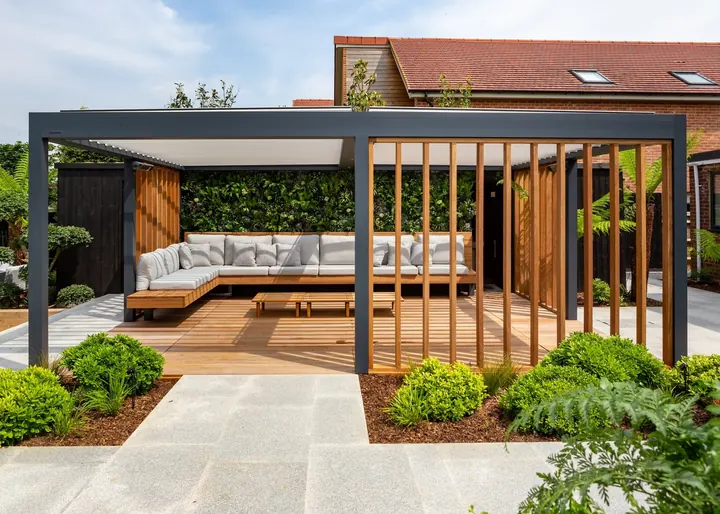
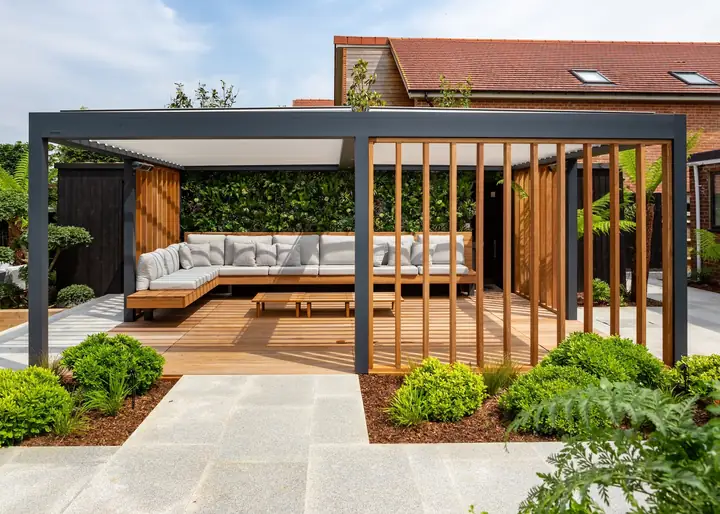
Polish homepage PSI follow-up

diff --git a/index.html b/index.html
@@ -40,10 +40,36 @@
     <link rel="apple-touch-icon" href="/images/Haven_transparent_logo-120.png">
     <link rel="manifest" href="/site.webmanifest">
     <link rel="author" href="/humans.txt">
-    <link rel="preload" as="image" href="images/Haven_transparent_logo-240.webp">
-    <link rel="preload" as="image" href="images/modern_living-720.webp" imagesrcset="images/modern_living-480.webp 480w, images/modern_living-720.webp 720w" imagesizes="(max-width: 900px) 100vw, 50vw">
-    
-    <link rel="stylesheet" href="css/styles.css">
+    <link rel="preload" as="image" href="images/Haven_transparent_logo-240.webp" fetchpriority="high">
+    <link rel="preload" as="image" href="images/modern_living-720.webp" imagesrcset="images/modern_living-480.webp 480w, images/modern_living-720.webp 720w" imagesizes="(max-width: 900px) calc(100vw - 3rem), 50vw" fetchpriority="high">
+    <style>
+      *{box-sizing:border-box;margin:0;padding:0}
+      :root{--black:#0b0b0b;--bronze:#c49a3a;--bronze-light:#d4aa4a;--white:#f5f5f5;--text-primary:#e8e8e8;--text-secondary:#999;--card-border:#222;--font-display:Georgia,'Times New Roman',serif}
+      html,body{overflow-x:hidden}
+      body{background:var(--black);color:var(--text-primary);font-family:'Segoe UI',Tahoma,Geneva,Verdana,sans-serif;line-height:1.7}
+      .navbar{background:var(--black);border-bottom:1px solid var(--card-border);box-shadow:0 2px 20px rgba(0,0,0,.5);position:sticky;top:0;z-index:1000}
+      .nav-container{align-items:center;display:flex;justify-content:space-between;margin:0 auto;max-width:1200px;padding:1.25rem 2rem}
+      .logo-image{display:block;height:auto;width:180px}
+      .nav-menu{display:flex;gap:1.8rem;list-style:none}
+      .nav-link{color:var(--text-primary);font-size:1rem;font-weight:500;letter-spacing:.5px;text-decoration:none}
+      .hamburger{background:none;border:0;cursor:pointer;display:none;flex-direction:column;gap:.35rem}
+      .hamburger span{background:var(--bronze);height:3px;width:25px}
+      .hero{align-items:center;display:grid;gap:4rem;grid-template-columns:1fr 1fr;margin:5rem auto;max-width:1200px;padding:0 2rem}
+      .hero-content,.hero-image{min-width:0}
+      .hero-content h1{color:var(--white);font-family:var(--font-display);font-size:2.8rem;font-weight:600;letter-spacing:0;line-height:1.2;margin-bottom:1.8rem;overflow-wrap:anywhere}
+      .hero-content p{color:var(--text-secondary);font-size:1.1rem;line-height:1.9;margin-bottom:1.2rem}
+      .hero-proof{border-left:3px solid var(--bronze);color:var(--text-primary);font-size:1rem;line-height:1.7;max-width:620px;padding-left:1rem}
+      .hero-actions{display:flex;flex-wrap:wrap;gap:1rem;margin-top:2.5rem}
+      .btn{border:2px solid transparent;border-radius:6px;cursor:pointer;display:inline-block;font-size:1rem;font-weight:600;letter-spacing:.5px;padding:.85rem 2.2rem;text-align:center;text-decoration:none}
+      .btn-primary{background:var(--bronze);color:var(--black)}
+      .btn-secondary{background:transparent;border-color:var(--bronze);color:var(--bronze)}
+      .hero-image{border-radius:10px;box-shadow:0 18px 44px rgba(0,0,0,.45);overflow:hidden;position:relative}
+      .hero-image img{aspect-ratio:3/2;display:block;filter:contrast(1.07);height:auto;width:100%}
+      @media (max-width:768px){.nav-menu{background:var(--black);border-top:1px solid var(--card-border);display:none;flex-direction:column;gap:0;left:0;padding:1rem;position:absolute;right:0;top:100%}.nav-menu.active{display:flex}.hamburger{display:flex}.hero{grid-template-columns:1fr;gap:2rem;margin:3rem auto;max-width:100%;padding:0 1.5rem;width:100%}.hero-content h1{font-size:2rem}.hero-content p{font-size:1rem}.hero-actions{flex-direction:column;width:100%}.hero-actions .btn{max-width:100%;width:100%}}
+      @media (max-width:480px){.nav-container{padding:1rem}.logo-image{width:140px}.hero-content h1{font-size:clamp(1.45rem,9vw,1.85rem);line-height:1.18}.hero-content p,.hero-proof{font-size:.96rem}.hero-image{border-radius:8px}}
+    </style>
+    <link rel="preload" href="css/styles.min.css?v=20260719-psi2" as="style" onload="this.onload=null;this.rel='stylesheet'">
+    <noscript><link rel="stylesheet" href="css/styles.min.css?v=20260719-psi2"></noscript>
     
     <title>Haven Design & Build LLC | Marietta GA Renovation Contractor</title>
 
@@ -219,7 +245,7 @@
                     </div>
                 </div>
                 <div class="hero-image">
-                    <img src="images/modern_living-720.webp" srcset="images/modern_living-480.webp 480w, images/modern_living-720.webp 720w" sizes="(max-width: 900px) 100vw, 50vw" alt="Modern luxury living room interior" width="720" height="480" fetchpriority="high" decoding="async">
+                    <img src="images/modern_living-720.webp" srcset="images/modern_living-480.webp 480w, images/modern_living-720.webp 720w" sizes="(max-width: 900px) calc(100vw - 3rem), 50vw" alt="Modern luxury living room interior" width="720" height="480" fetchpriority="high" decoding="async">
                 </div>
             </div>
 

diff --git a/js/app.js b/js/app.js
@@ -424,13 +424,13 @@ function loadGoogleAnalytics() {
 }
 
 function scheduleGoogleAnalytics() {
-    const load = () => {
-        if ('requestIdleCallback' in window) {
-            window.requestIdleCallback(loadGoogleAnalytics, { timeout: 2500 });
-            return;
-        }
-        window.setTimeout(loadGoogleAnalytics, 1200);
-    };
+    const load = () => window.setTimeout(loadGoogleAnalytics, 12000);
+    const loadOnInteraction = () => loadGoogleAnalytics();
+    const interactionOptions = { once: true, passive: true };
+
+    ['pointerdown', 'keydown', 'scroll', 'touchstart'].forEach((eventName) => {
+        window.addEventListener(eventName, loadOnInteraction, interactionOptions);
+    });
 
     if (document.readyState === 'complete') {
         load();

diff --git a/css/styles.css b/css/styles.css
@@ -320,6 +320,8 @@ body {
 
 .hero-image img {
     width: 100%;
+    height: auto;
+    aspect-ratio: 3 / 2;
     display: block;
     filter: contrast(1.07);
 }
@@ -427,6 +429,7 @@ body {
 .project-card img {
     width: 100%;
     height: 200px;
+    aspect-ratio: 16 / 9;
     object-fit: cover;
 }
 
@@ -707,6 +710,7 @@ body {
 
 .service-image img {
     width: 100%;
+    height: auto;
     border-radius: 6px;
     box-shadow: 0 12px 28px rgba(0, 0, 0, 0.22);
 }

diff --git a/css/styles.min.css b/css/styles.min.css
@@ -1,0 +1,1 @@
+*{margin:0;padding:0;box-sizing:border-box}:root{--black:#0B0B0B;--black-lighter:#141414;--bronze:#C49A3A;--bronze-light:#D4AA4A;--bronze-dim:rgba(196,154,58,0.15);--white:#F5F5F5;--gray-dark:#1A1A1A;--gray-mid:#2A2A2A;--gray-light:#B0B0B0;--text-primary:#E8E8E8;--text-secondary:#999999;--card-bg:#141414;--card-border:#222222;--font-display:Georgia,'Times New Roman',serif}html{scroll-behavior:smooth;overflow-x:hidden}body{font-family:'Segoe UI',Tahoma,Geneva,Verdana,sans-serif;line-height:1.7;color:var(--text-primary);background-color:var(--black);overflow-x:hidden}.hero-content h1,.hero-content h2,.featured-projects h3,.about-copy h2,.testimonials h3,.services-header h2,.service-content h3,.inquire-header h2,.payments-header h2,.connect-header h2,.payment-info h3,.stripe-payment h3,.payment-contact h3,.qr-card h3{font-family:var(--font-display);font-weight:600;letter-spacing:0.2px}.navbar{background-color:var(--black);position:sticky;top:0;z-index:1000;box-shadow:0 2px 20px rgba(0,0,0,0.5);border-bottom:1px solid var(--card-border)}.nav-container{max-width:1200px;margin:0 auto;display:flex;justify-content:space-between;align-items:center;padding:1.25rem 2rem}.logo{display:flex;flex-direction:column;align-items:flex-start;text-decoration:none;color:var(--bronze);font-weight:bold}.logo-image{width:180px;height:auto;display:block}.logo h1{font-size:1.6rem;letter-spacing:3px;margin:0;line-height:1}.logo p{font-size:0.7rem;letter-spacing:1.5px;margin-top:0.3rem;text-transform:uppercase;color:var(--bronze);opacity:0.8}.nav-menu{display:flex;list-style:none;gap:1.8rem}.nav-link{color:var(--text-primary);text-decoration:none;font-weight:500;transition:color 0.3s ease;cursor:pointer;font-size:1rem;letter-spacing:0.5px}.nav-link:hover{color:var(--bronze)}.nav-link.active{color:var(--bronze);border-bottom:2px solid var(--bronze);padding-bottom:0.25rem}.hamburger{display:none;flex-direction:column;background:none;border:none;cursor:pointer;gap:0.35rem}.hamburger span{width:25px;height:3px;background-color:var(--bronze);transition:all 0.3s ease}.hamburger.active span:nth-child(1){transform:rotate(45deg) translate(8px,8px)}.hamburger.active span:nth-child(2){opacity:0}.hamburger.active span:nth-child(3){transform:rotate(-45deg) translate(7px,-7px)}.btn{display:inline-block;padding:0.85rem 2.2rem;border:2px solid transparent;border-radius:6px;text-decoration:none;font-weight:600;cursor:pointer;transition:all 0.3s ease;font-size:1rem;text-align:center;letter-spacing:0.5px}.btn-primary{background-color:var(--bronze);color:var(--black)}.btn-primary:hover{background-color:var(--bronze-light);transform:translateY(-2px);box-shadow:0 6px 20px rgba(196,154,58,0.3)}.btn-secondary{background-color:transparent;color:var(--bronze);border:2px solid var(--bronze)}.btn-secondary:hover{background-color:var(--bronze-dim);transform:translateY(-2px);box-shadow:0 4px 15px rgba(196,154,58,0.15)}.btn-tertiary{background-color:transparent;color:var(--bronze);border:2px solid var(--bronze);padding:0.6rem 1.5rem;font-size:0.9rem}.btn-tertiary:hover{background-color:var(--bronze-dim)}.main-content{min-height:calc(100vh - 200px)}.page{animation:fadeIn 0.3s ease-in}@keyframes fadeIn{from{opacity:0;transform:translateY(10px)}to{opacity:1;transform:translateY(0)}}.hero{display:grid;grid-template-columns:1fr 1fr;gap:4rem;align-items:center;max-width:1200px;margin:5rem auto;padding:0 2rem}.hero-content,.hero-image,.about-section,.about-copy,.about-features{min-width:0}.hero-content h1{font-size:2.8rem;line-height:1.2;margin-bottom:1.8rem;color:var(--white);letter-spacing:0;overflow-wrap:anywhere}.hero-content p{font-size:1.1rem;margin-bottom:1.2rem;color:var(--text-secondary);line-height:1.9;overflow-wrap:break-word}.hero-content .hero-proof{max-width:620px;padding-left:1rem;border-left:3px solid var(--bronze);color:var(--text-primary);font-size:1rem;line-height:1.7}.hero-actions{display:flex;flex-wrap:wrap;gap:1rem;margin-top:2.5rem}.hero-content .btn{margin-top:0}.hero-image{position:relative;border-radius:10px;overflow:hidden;box-shadow:0 18px 44px rgba(0,0,0,0.45)}.hero-image::after{content:'';position:absolute;inset:0;background:radial-gradient(circle at center,rgba(0,0,0,0) 46%,rgba(0,0,0,0.22) 100%),linear-gradient(rgba(11,11,11,0.08),rgba(11,11,11,0.08));pointer-events:none}.hero-image img{width:100%;height:auto;aspect-ratio:3 / 2;display:block;filter:contrast(1.07)}.about-section{max-width:1200px;margin:0 auto 7rem;padding:4rem 2rem;display:grid;grid-template-columns:1.1fr 0.9fr;gap:3rem;align-items:center;background:var(--gray-dark);border-top:1px solid rgba(196,154,58,0.24);border-bottom:1px solid rgba(196,154,58,0.24)}.section-kicker{display:inline-block;color:var(--bronze);font-size:0.82rem;font-weight:700;letter-spacing:1px;text-transform:uppercase;margin-bottom:1rem}.about-copy h2{color:var(--white);font-size:2.2rem;line-height:1.25;margin-bottom:1.2rem}.about-copy p{color:var(--text-secondary);font-size:1.05rem;line-height:1.9}.about-highlights{display:grid;gap:1rem}.about-highlights div{padding:1.3rem;background:var(--card-bg);border-left:4px solid var(--bronze);border-radius:6px}.about-highlights strong,.about-highlights span{display:block}.about-highlights strong{color:var(--white);margin-bottom:0.35rem}.about-highlights span{color:var(--text-secondary);font-size:0.95rem;line-height:1.6}.featured-projects{max-width:1200px;margin:7rem auto;padding:0 2rem}.featured-projects h3{font-size:2.2rem;margin-bottom:3rem;text-align:center;color:var(--white)}.projects-grid{display:grid;grid-template-columns:repeat(auto-fit,minmax(250px,1fr));gap:2rem}.project-card{background:var(--card-bg);border-radius:10px;overflow:hidden;box-shadow:0 8px 24px rgba(0,0,0,0.2);transition:transform 0.3s ease,box-shadow 0.3s ease;border:1px solid rgba(255,255,255,0.05)}.project-card:hover{transform:translateY(-6px);box-shadow:0 14px 30px rgba(0,0,0,0.28);border-color:rgba(196,154,58,0.2)}.project-card img{width:100%;height:200px;aspect-ratio:16 / 9;object-fit:cover}.project-card h4{padding:1.5rem 1.5rem 0.5rem;color:var(--white);font-size:1.25rem}.project-card p{padding:0.5rem 1.5rem 1.8rem;color:var(--text-secondary);font-size:0.95rem;line-height:1.6}.testimonials{background:var(--gray-dark);color:var(--white);padding:6rem 2rem;margin:7rem 0 0;border-top:1px solid rgba(255,255,255,0.05);border-bottom:1px solid rgba(255,255,255,0.05)}.testimonials h3{font-size:2.2rem;margin-bottom:3rem;text-align:center}.testimonials-container{max-width:1200px;margin:0 auto;display:grid;grid-template-columns:repeat(auto-fit,minmax(300px,1fr));gap:2rem}.testimonial{background:rgba(255,255,255,0.03);padding:2.5rem;border-radius:10px;border:1px solid rgba(255,255,255,0.06);border-left:4px solid var(--bronze)}.testimonial-rating{display:inline-block;color:var(--bronze);font-size:0.95rem;letter-spacing:1px;margin-bottom:0.85rem}.testimonial p{font-size:1rem;line-height:1.9;margin-bottom:1.5rem;font-style:italic;color:var(--text-primary)}.testimonial .author{color:var(--bronze);font-weight:600;display:block}.verified-label{display:inline-block;margin-top:0.35rem;font-size:0.82rem;color:var(--text-secondary)}.services-header{text-align:center;padding:5rem 2rem 4rem;max-width:1200px;margin:0 auto}.services-header h2{font-size:2.8rem;margin-bottom:1.2rem;color:var(--white)}.services-header p{font-size:1.15rem;color:var(--text-secondary)}.services-container{max-width:1200px;margin:0 auto;padding:0 2rem 5rem}.service-section{display:grid;grid-template-columns:1fr 1fr;gap:3.5rem;align-items:center;margin-bottom:5.5rem;padding:0;background:transparent;border:none}.service-section-reverse{direction:rtl}.service-section-reverse>*{direction:ltr}.service-actions{display:flex;flex-wrap:wrap;align-items:center;gap:1rem;margin-top:1.5rem}.text-link{color:var(--bronze);font-weight:700;text-decoration:none;border-bottom:1px solid rgba(201,169,110,0.45);padding-bottom:0.2rem}.text-link:hover{color:var(--gold);border-bottom-color:var(--gold)}.inline-link{color:var(--bronze);text-decoration:none;font-weight:700}.inline-link:hover{color:var(--gold)}.page-support-section{max-width:1200px;margin:6rem auto;padding:0 2rem;min-width:0}.local-seo-panel{background:linear-gradient(135deg,rgba(201,169,110,0.12),rgba(255,255,255,0.04));border:1px solid rgba(201,169,110,0.28);border-radius:10px;padding:3rem;min-width:0}.local-seo-panel h2{font-family:var(--font-display);font-size:2rem;color:var(--white);margin:0.75rem 0 1rem}.local-seo-panel>p{color:var(--text-secondary);max-width:850px;line-height:1.8}.answer-grid{display:grid;grid-template-columns:repeat(auto-fit,minmax(min(100%,220px),1fr));gap:1.25rem;margin-top:2rem}.answer-grid article{background:rgba(0,0,0,0.24);border:1px solid rgba(255,255,255,0.08);border-radius:8px;padding:1.5rem;min-width:0}.answer-grid h3{color:var(--bronze);margin-bottom:0.75rem;overflow-wrap:break-word}.answer-grid p{color:var(--text-secondary);line-height:1.7;overflow-wrap:break-word}.seo-page{min-height:100vh;background:var(--black);color:var(--white);padding:3rem 2rem 5rem}.seo-back-link{display:inline-block;color:var(--bronze);text-decoration:none;margin-bottom:3rem;font-weight:700}.seo-hero,.seo-content-grid{max-width:1000px;margin:0 auto}.seo-hero{padding:4rem 0}.seo-hero h1{font-family:var(--font-display);font-size:clamp(2.2rem,6vw,4.5rem);line-height:1.05;margin:1rem 0}.seo-hero p{color:var(--text-secondary);font-size:1.1rem;line-height:1.8;max-width:780px;margin-bottom:2rem}.seo-content-grid{display:grid;grid-template-columns:1fr 1fr;gap:1.5rem}.seo-content-grid article{background:var(--gray-dark);border:1px solid rgba(201,169,110,0.22);border-radius:10px;padding:2rem}.seo-content-grid h2{color:var(--bronze);margin-bottom:1rem}.seo-content-grid p,.seo-content-grid li{color:var(--text-secondary);line-height:1.8}.seo-content-grid ul{padding-left:1.2rem}.service-image img{width:100%;height:auto;border-radius:6px;box-shadow:0 12px 28px rgba(0,0,0,0.22)}.service-content h3{font-size:1.9rem;margin-bottom:1.5rem;color:var(--white)}.service-content p{font-size:1.05rem;line-height:1.9;margin-bottom:1.8rem;color:var(--text-secondary)}.service-list{list-style:disc;margin:0 0 1.8rem 1.2rem;color:var(--text-secondary)}.service-list li{font-size:1.05rem;line-height:1.9;margin-bottom:0.4rem}.service-content .btn{margin-right:1rem;margin-bottom:1rem}.inquire-header{background:var(--gray-dark);color:var(--white);text-align:center;padding:4rem 2rem;border-bottom:1px solid rgba(255,255,255,0.05)}.inquire-header h2{font-size:2.8rem;margin-bottom:1.2rem}.inquire-header p{font-size:1.15rem;max-width:600px;margin:0 auto;color:var(--text-secondary)}.inquire-content{max-width:700px;margin:0 auto;padding:4rem 2rem}.quote-path{display:grid;grid-template-columns:repeat(3,1fr);gap:1rem;margin-bottom:2rem}.quote-path div{padding:1.25rem;background:rgba(20,20,20,0.72);border:1px solid rgba(196,154,58,0.18);border-radius:8px}.quote-path span{display:inline-flex;align-items:center;justify-content:center;width:2rem;height:2rem;margin-bottom:0.85rem;border:1px solid rgba(196,154,58,0.45);border-radius:50%;color:var(--bronze-light);font-weight:700}.quote-path strong{display:block;margin-bottom:0.35rem;color:var(--white)}.quote-path p{color:var(--text-secondary);font-size:0.92rem;line-height:1.6}.form-container{background:var(--card-bg);padding:3rem;border-radius:10px;border:1px solid rgba(255,255,255,0.06);box-shadow:0 10px 24px rgba(0,0,0,0.16)}.inquiry-form{display:flex;flex-direction:column;gap:1.5rem}.form-group{display:flex;flex-direction:column}.form-group label{font-weight:600;margin-bottom:0.5rem;color:var(--white);font-size:0.95rem}.form-group input,.form-group select,.form-group textarea{padding:0.85rem 1rem;border:1px solid var(--card-border);border-radius:6px;font-family:inherit;font-size:1rem;transition:border-color 0.3s ease,box-shadow 0.3s ease;background-color:var(--gray-dark);color:var(--text-primary)}.form-group input:focus,.form-group select:focus,.form-group textarea:focus{outline:none;border-color:var(--bronze);box-shadow:0 0 0 3px rgba(196,154,58,0.15)}.form-group input::placeholder,.form-group textarea::placeholder{color:var(--text-secondary)}.form-group select option{background-color:var(--gray-dark);color:var(--text-primary)}.form-group textarea{resize:vertical}.inquiry-form .btn-primary{margin-top:1rem;cursor:pointer;border:none;font-size:1.05rem;padding:1rem 2rem}.form-note{font-size:0.9rem;color:var(--text-secondary);margin-top:0.75rem;text-align:center}.form-note a{color:var(--bronze)}.form-note-email{margin-top:1rem}.form-message{padding:1.5rem;border-radius:6px;margin-top:1.5rem}.form-message.success{background-color:rgba(40,167,69,0.15);border:1px solid rgba(40,167,69,0.3);color:#6fcf7c}.form-message.error{background-color:rgba(220,53,69,0.15);border:1px solid rgba(220,53,69,0.3);color:#f5a0a8}.payments-header{text-align:center;background:var(--gray-dark);color:var(--white);padding:4rem 2rem;border-bottom:1px solid rgba(255,255,255,0.05)}.payments-header h2{font-size:2.8rem;margin-bottom:1.2rem}.payments-header p{font-size:1.15rem;color:var(--text-secondary)}.payments-content{max-width:1200px;margin:0 auto;padding:5rem 2rem;display:grid;grid-template-columns:repeat(auto-fit,minmax(300px,1fr));gap:2.8rem}.payment-info{background:var(--card-bg);padding:2.5rem;border-radius:10px;border:1px solid rgba(255,255,255,0.06);box-shadow:0 10px 24px rgba(0,0,0,0.16)}.payment-info h3{font-size:1.5rem;margin-bottom:1rem;color:var(--white)}.payment-info p{color:var(--text-secondary);margin-bottom:1.5rem;line-height:1.7}.payment-methods{display:grid;gap:1.5rem;margin:2rem 0}.payment-method{background:var(--gray-dark);padding:1.5rem;border-left:4px solid var(--bronze);border-radius:6px;box-shadow:0 6px 16px rgba(0,0,0,0.12)}.payment-method h4{color:var(--white);margin-bottom:0.5rem}.payment-method p{color:var(--text-secondary);font-size:0.95rem;margin-bottom:0}.payment-schedule{background:var(--gray-dark);padding:1.5rem;border-radius:6px;margin-top:1.5rem}.payment-schedule h4{color:var(--white);margin-bottom:1rem}.payment-schedule ul{list-style:none}.payment-schedule li{padding:0.6rem 0;color:var(--text-secondary);border-bottom:1px solid var(--card-border)}.payment-schedule li strong{color:var(--bronze)}.payment-schedule li:last-child{border-bottom:none}.stripe-payment{background:var(--card-bg);padding:2.5rem;border-radius:10px;border:1px solid rgba(255,255,255,0.06);box-shadow:0 10px 24px rgba(0,0,0,0.16)}.stripe-payment h3{font-size:1.5rem;margin-bottom:1rem;color:var(--white)}.stripe-payment p{color:var(--text-secondary);margin-bottom:1.5rem}.payment-input-group{margin-bottom:1.5rem}.payment-input-group label{display:block;font-weight:600;margin-bottom:0.5rem;color:var(--white)}.payment-input-group input{width:100%;padding:0.85rem 1rem;border:1px solid var(--card-border);border-radius:6px;font-size:1rem;background-color:var(--gray-dark);color:var(--text-primary);transition:border-color 0.3s ease}.payment-input-group input:focus{outline:none;border-color:var(--bronze);box-shadow:0 0 0 3px rgba(196,154,58,0.15)}.stripe-note{font-size:0.85rem;color:var(--text-secondary);margin-top:1rem;font-style:italic}.stripe-security-note{font-size:0.85rem;color:rgba(196,154,58,0.78);margin-top:0.85rem;margin-bottom:0;text-align:center}.payment-contact{background:var(--card-bg);padding:2.5rem;border-radius:10px;text-align:center;border:1px solid rgba(255,255,255,0.06);box-shadow:0 10px 24px rgba(0,0,0,0.16)}.payment-contact h3{font-size:1.5rem;margin-bottom:1rem;color:var(--white)}.payment-contact p{color:var(--text-secondary);margin-bottom:1.5rem}.payment-tab-link{margin-top:1rem}.connect-header{text-align:center;background:var(--gray-dark);color:var(--white);padding:4rem 2rem;border-bottom:1px solid rgba(255,255,255,0.05)}.connect-header h2{font-size:2.8rem;margin-bottom:1.2rem}.connect-header p{color:var(--text-secondary);max-width:620px;margin:0 auto;font-size:1.1rem}.connect-content{max-width:920px;margin:0 auto;padding:5rem 2rem;display:grid;grid-template-columns:320px 1fr;gap:2rem;align-items:stretch}.qr-card,.connect-links{background:var(--card-bg);border:1px solid rgba(255,255,255,0.06);border-radius:8px;padding:2rem;box-shadow:0 10px 24px rgba(0,0,0,0.16)}.qr-card{text-align:center}.qr-card img{width:220px;height:220px;max-width:100%;border-radius:6px;background:var(--white);padding:0.5rem;margin-bottom:1.2rem}.qr-card h3{color:var(--white);margin-bottom:0.5rem}.qr-card p{color:var(--text-secondary);font-size:0.95rem}.connect-links{display:grid;gap:1rem}.connect-links a{display:flex;align-items:center;justify-content:space-between;min-height:52px;padding:0.85rem 1rem;color:var(--text-primary);text-decoration:none;border:1px solid var(--card-border);border-radius:6px;background:var(--gray-dark);transition:border-color 0.3s ease,color 0.3s ease,transform 0.3s ease}.connect-links a::after{content:'>';color:var(--bronze)}.connect-links a:hover{color:var(--bronze);border-color:rgba(196,154,58,0.45);transform:translateY(-2px)}.thanks-content{max-width:720px;margin:0 auto;padding:7rem 2rem;text-align:center}.thanks-content h2{font-family:var(--font-display);font-size:2.8rem;color:var(--white);margin-bottom:1rem;letter-spacing:0}.thanks-content p{color:var(--text-secondary);font-size:1.1rem;line-height:1.9;margin-bottom:2rem}.thanks-actions{display:flex;flex-wrap:wrap;justify-content:center;gap:1rem}.faq-header{text-align:center;padding:4rem 2rem;background:linear-gradient(135deg,var(--black-lighter) 0%,var(--black) 100%);border-bottom:1px solid var(--card-border)}.faq-header h2{font-family:var(--font-display);font-size:2.8rem;margin-bottom:1rem;color:var(--white);letter-spacing:0}.faq-header p{font-size:1.1rem;color:var(--text-secondary);max-width:600px;margin:0 auto}.faq-content{max-width:1000px;margin:0 auto;padding:4rem 2rem}.faq-container{display:flex;flex-direction:column;gap:3rem;margin-bottom:3rem}.faq-section{display:flex;flex-direction:column;gap:1.5rem}.faq-section h3{font-family:var(--font-display);font-size:1.8rem;color:var(--bronze);padding-bottom:1rem;border-bottom:2px solid rgba(196,154,58,0.3)}.faq-item{padding:1.5rem;background:var(--card-bg);border-left:4px solid var(--bronze);border-radius:6px;transition:all 0.3s ease}.faq-item:hover{background:rgba(196,154,58,0.05);box-shadow:0 4px 12px rgba(0,0,0,0.2);transform:translateX(4px)}.faq-item h4{font-size:1.1rem;color:var(--white);margin-bottom:0.75rem;cursor:pointer;display:flex;justify-content:space-between;align-items:center}.faq-item h4::before{content:'';width:0;height:0;border-left:6px solid transparent;border-right:6px solid transparent;border-top:8px solid var(--bronze);margin-right:0.75rem;transition:transform 0.3s ease}.faq-item p{color:var(--text-secondary);font-size:0.95rem;line-height:1.8}.faq-cta{background:linear-gradient(135deg,rgba(196,154,58,0.1) 0%,rgba(196,154,58,0.05) 100%);padding:3rem;border-radius:10px;border:1px solid rgba(196,154,58,0.3);text-align:center}.faq-cta h3{font-family:var(--font-display);font-size:1.8rem;color:var(--white);margin-bottom:1rem;letter-spacing:0}.faq-cta p{color:var(--text-secondary);margin-bottom:1.5rem;font-size:1rem}.footer{background:var(--black);color:var(--white);margin-top:0;border-top:1px solid rgba(255,255,255,0.05)}.footer-content{max-width:1200px;margin:0 auto;padding:4rem 2rem;display:grid;grid-template-columns:repeat(auto-fit,minmax(250px,1fr));gap:2.5rem}.footer-section h4{color:var(--bronze);margin-bottom:1.2rem;font-size:1.1rem;letter-spacing:0.5px}.footer-section p{color:var(--text-secondary);font-size:0.95rem;line-height:1.7}.footer-logo-image{width:200px;max-width:100%;height:auto;display:block;margin-bottom:1rem}.footer-section ul{list-style:none}.footer-section ul li{margin-bottom:0.75rem}.footer-section ul li a{color:var(--text-secondary);text-decoration:none;transition:color 0.3s ease}.footer-section ul li a:hover{color:var(--bronze)}.social-links{display:flex;gap:1.2rem}.social-links a{color:var(--text-secondary);text-decoration:none;transition:color 0.3s ease}.social-links a:hover{color:var(--bronze)}.footer-bottom{background:rgba(0,0,0,0.5);padding:1.5rem 2rem;text-align:center;color:var(--text-secondary);font-size:0.9rem;border-top:1px solid var(--card-border)}.footer-utility{margin-top:0.75rem;display:flex;justify-content:center;gap:1rem;flex-wrap:wrap}.footer-utility a{color:var(--text-secondary);font-size:0.82rem;text-decoration:none}.footer-utility a:hover{color:var(--bronze)}.helper-agent{position:fixed;right:1.25rem;bottom:1.25rem;z-index:1200;font-family:inherit}.helper-agent-toggle{min-height:48px;border:1px solid rgba(196,154,58,0.75);border-radius:999px;background:var(--bronze);color:var(--black);padding:0.85rem 1.15rem;font-weight:800;cursor:pointer;box-shadow:0 14px 28px rgba(0,0,0,0.35)}.helper-agent-panel{position:absolute;right:0;bottom:4rem;width:min(360px,calc(100vw - 2rem));overflow:hidden;border:1px solid rgba(196,154,58,0.35);border-radius:8px;background:var(--card-bg);box-shadow:0 22px 60px rgba(0,0,0,0.55)}.helper-agent-header{display:flex;justify-content:space-between;gap:1rem;align-items:flex-start;padding:1rem;background:var(--gray-dark);border-bottom:1px solid var(--card-border)}.helper-agent-header strong,.helper-agent-header span{display:block}.helper-agent-header strong{color:var(--white)}.helper-agent-header span,.helper-agent-reply,.helper-agent-status{color:var(--text-secondary);font-size:0.9rem}.helper-agent-close{width:32px;height:32px;border:1px solid var(--card-border);border-radius:50%;background:var(--black);color:var(--white);cursor:pointer;font-size:1.15rem}.helper-agent-body{padding:1rem}.helper-agent-form{display:grid;gap:0.7rem}.helper-agent-form label{color:var(--white);font-size:0.85rem;font-weight:700}.helper-agent-form input,.helper-agent-form select,.helper-agent-form textarea{width:100%;border:1px solid var(--card-border);border-radius:6px;background:var(--gray-dark);color:var(--text-primary);padding:0.75rem;font:inherit}.helper-agent-status{min-height:1.3rem}.admin-shell{min-height:100vh;background:radial-gradient(circle at 15% 10%,rgba(196,154,58,0.12),transparent 30%),var(--black);color:var(--text-primary);padding:3rem 1.25rem}.admin-panel{max-width:1120px;margin:0 auto}.admin-panel h1{font-family:var(--font-display);color:var(--white);font-size:clamp(2rem,5vw,3.5rem);margin:0.5rem 0 1rem}.admin-form,.admin-card,.admin-status-grid article{border:1px solid rgba(255,255,255,0.08);border-radius:8px;background:var(--card-bg);box-shadow:0 18px 38px rgba(0,0,0,0.24)}.admin-form{max-width:460px;display:grid;gap:0.9rem;padding:1.5rem;margin-top:2rem}.admin-form label,.admin-card label{color:var(--white);font-weight:700}.admin-form input,.admin-card input,.admin-card select,.admin-card textarea{width:100%;border:1px solid var(--card-border);border-radius:6px;background:var(--gray-dark);color:var(--text-primary);padding:0.85rem 1rem;font:inherit}.admin-topbar{display:flex;justify-content:space-between;gap:1.5rem;align-items:flex-start;margin-bottom:2rem}.admin-status-grid{display:grid;grid-template-columns:repeat(3,1fr);gap:1rem;margin-bottom:1.5rem}.admin-status-grid article,.admin-card{padding:1.5rem}.admin-status-grid span{display:block;color:var(--text-secondary);font-size:0.85rem;margin-bottom:0.35rem}.admin-status-grid strong{color:var(--bronze);font-size:1.15rem}.admin-grid{display:grid;grid-template-columns:minmax(0,1.3fr) minmax(280px,0.7fr);gap:1.25rem}.admin-card{display:grid;gap:0.9rem}.admin-card h2{font-family:var(--font-display);color:var(--white);margin-bottom:0.25rem}.admin-checklist{color:var(--text-secondary);padding-left:1.1rem;line-height:1.8}@media (max-width:768px){.nav-menu{position:absolute;top:100%;left:0;right:0;background:var(--black);flex-direction:column;gap:0;display:none;padding:1rem;border-top:1px solid var(--card-border)}.nav-menu.active{display:flex}.nav-menu li{border-bottom:1px solid var(--card-border);padding:0.75rem 0}.hamburger{display:flex}.hero{grid-template-columns:1fr;gap:2rem;margin:3rem auto;width:100%;max-width:100%;padding:0 1.5rem}.hero-content h1{font-size:2rem;max-width:100%}.hero-content .hero-proof{padding-left:0.85rem;max-width:100%}.hero-actions{flex-direction:column;width:100%}.hero-actions .btn{width:100%;max-width:100%}.quote-path{grid-template-columns:1fr}.about-section{grid-template-columns:1fr;margin-bottom:4rem;padding:3rem 1.5rem}.hero-content p{font-size:1rem}.projects-grid{grid-template-columns:1fr}.service-section{grid-template-columns:1fr;gap:1.5rem;margin-bottom:3rem;padding:0}.service-section-reverse{direction:ltr}.service-content .btn{display:block;width:100%;margin-right:0;margin-bottom:0.75rem}.inquire-content{padding:2rem 1rem}.form-container{padding:2rem 1.5rem}.payments-content{grid-template-columns:1fr;padding:2rem 1rem}.connect-content{grid-template-columns:1fr;padding:2rem 1rem}.admin-topbar,.admin-grid,.admin-status-grid{grid-template-columns:1fr}.admin-topbar{flex-direction:column}.thanks-content{padding:5rem 1.5rem}.thanks-actions{flex-direction:column}.thanks-actions .btn{width:100%}.testimonials-container{grid-template-columns:1fr}.faq-header h2{font-size:2rem}.faq-header p{font-size:0.95rem}.faq-content{padding:2rem 1rem}.page-support-section{margin:4rem auto;padding:0 1.5rem}.local-seo-panel{padding:2rem 1.25rem}.local-seo-panel h2{font-size:1.6rem}.answer-grid{grid-template-columns:1fr}.faq-section h3{font-size:1.4rem}.faq-item{padding:1rem}.faq-item h4{font-size:1rem}.faq-cta{padding:2rem 1.5rem}.faq-cta h3{font-size:1.4rem}.footer-content{padding:2rem 1rem}.btn{padding:0.7rem 1.5rem;font-size:0.95rem}.services-header h2,.inquire-header h2,.payments-header h2,.connect-header h2{font-size:2rem}.featured-projects h3,.testimonials h3{font-size:1.6rem}}@media (max-width:480px){body{width:100%}.nav-container{padding:1rem}.logo-image{width:140px}.hero-content h1{font-size:clamp(1.45rem,9vw,1.85rem);line-height:1.18}.hero-content p,.hero-content .hero-proof{font-size:0.96rem}.hero-image{border-radius:8px}.about-copy h2{font-size:1.55rem}.page-support-section{padding:0 1rem}.local-seo-panel{padding:1.5rem 1rem;border-radius:8px}.local-seo-panel h2{font-size:1.4rem}.answer-grid article{padding:1.15rem}.thanks-content h2{font-size:2rem}.service-content h3{font-size:1.3rem}.project-card{margin-bottom:1rem}.form-group input,.form-group select,.form-group textarea{font-size:16px}.btn{padding:0.6rem 1.2rem;font-size:0.9rem}.service-content .btn{padding:0.5rem 1rem;font-size:0.85rem}.payment-methods{gap:1rem}.payment-method{padding:1rem}.helper-agent{right:0.6rem;bottom:0.6rem}.helper-agent-toggle{min-height:42px;padding:0.65rem 0.9rem;font-size:0.85rem;box-shadow:0 10px 22px rgba(0,0,0,0.32)}.helper-agent-panel{right:-0.15rem;max-width:calc(100vw - 1.2rem)}}